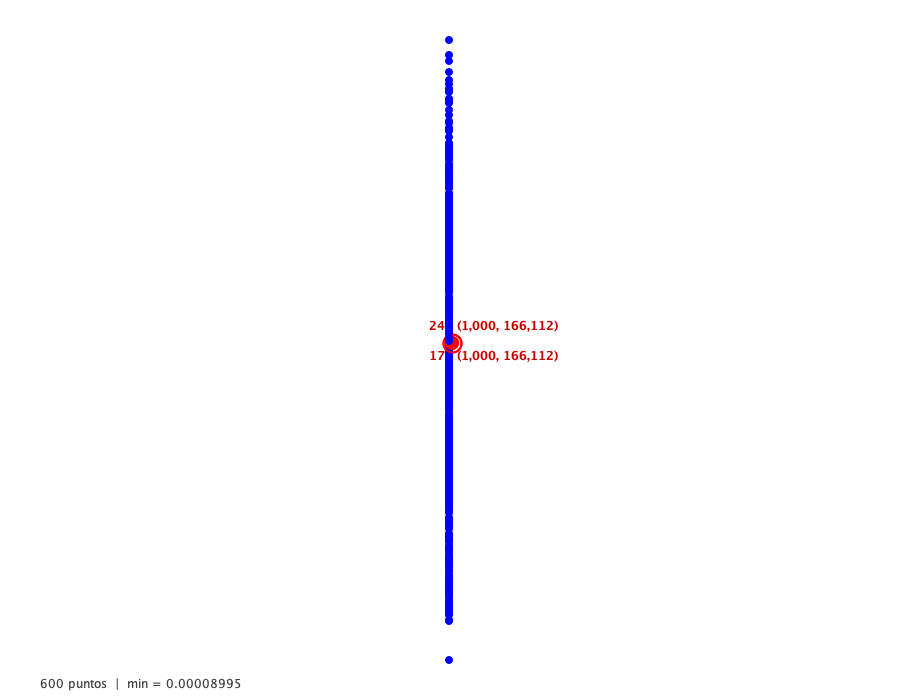
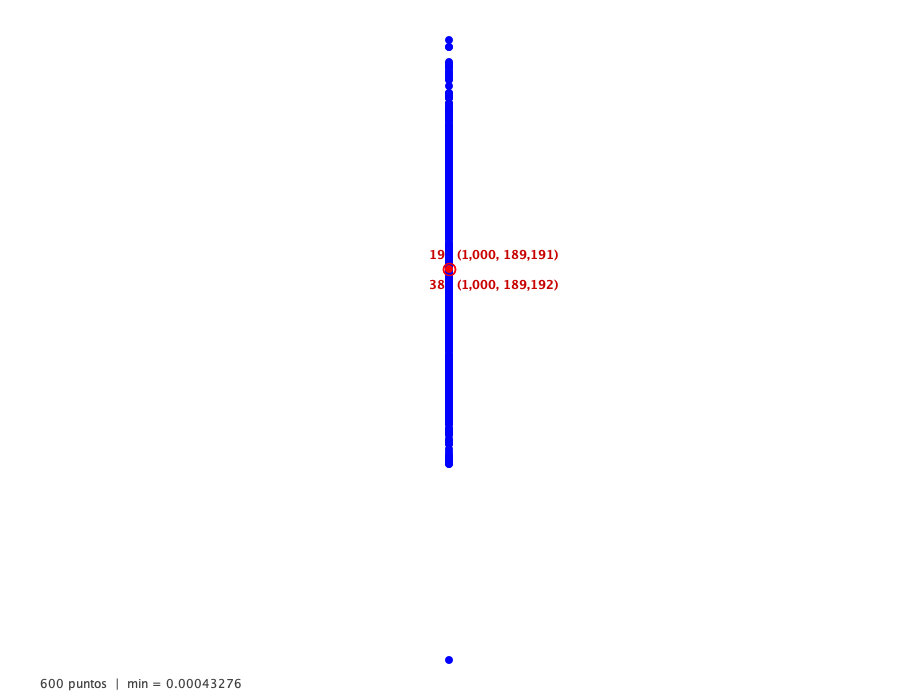
Puntos resultado: mismo tamaño que el resto, solo relleno y borde rojo; imágenes regeneradas y actualizadas en la memoria

diff --git a/Practica1/src/main/java/com/practica1/vista/PanelGrafico.java b/Practica1/src/main/java/com/practica1/vista/PanelGrafico.java
@@ -159,11 +159,12 @@ public class PanelGrafico extends JPanel {
                     && (p.equals(solucion.getPunto1()) || p.equals(solucion.getPunto2()));
 
             if (esResultado) {
-                // Punto resultado: relleno rojo + borde rojo más grueso
+                // Punto resultado: mismo tamaño, relleno rojo + borde rojo
                 g2.setColor(Color.RED);
-                g2.fillOval(x, y, TAM_PUNTO + 6, TAM_PUNTO + 6);
-                g2.setStroke(new BasicStroke(2.0f));
-                g2.drawOval(x - 2, y - 2, TAM_PUNTO + 10, TAM_PUNTO + 10);
+                g2.fillOval(x, y, TAM_PUNTO, TAM_PUNTO);
+                g2.setColor(Color.RED);
+                g2.setStroke(new BasicStroke(1.5f));
+                g2.drawOval(x - 2, y - 2, TAM_PUNTO + 4, TAM_PUNTO + 4);
             } else {
                 g2.setColor(Color.BLUE);
                 g2.fillOval(x, y, TAM_PUNTO, TAM_PUNTO);
